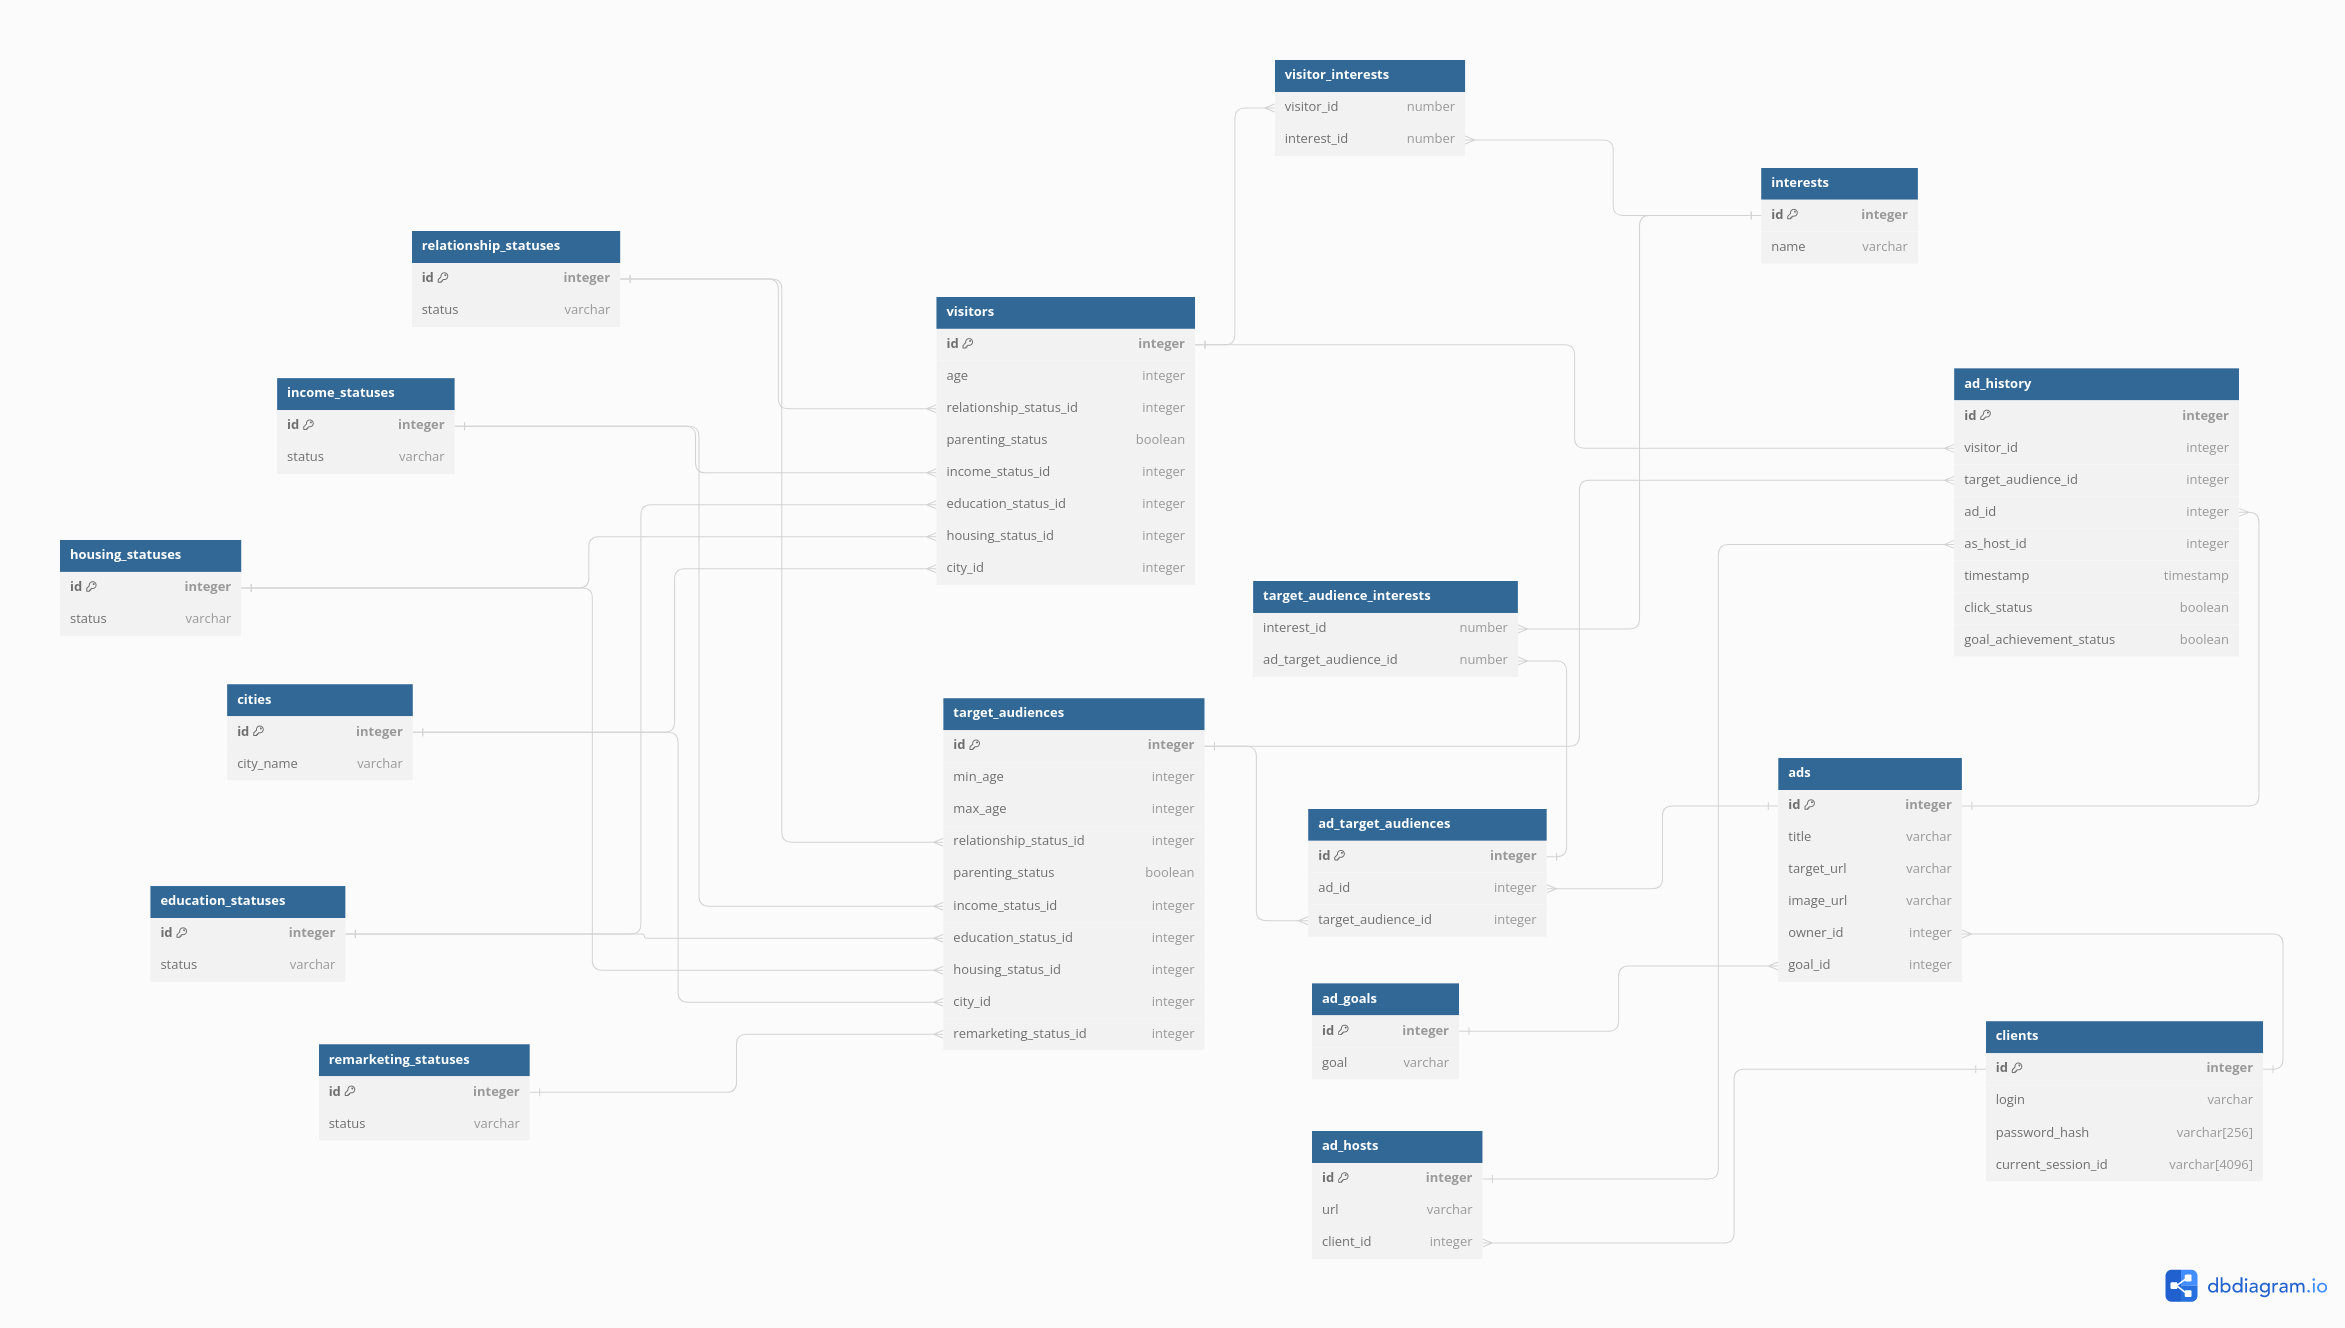
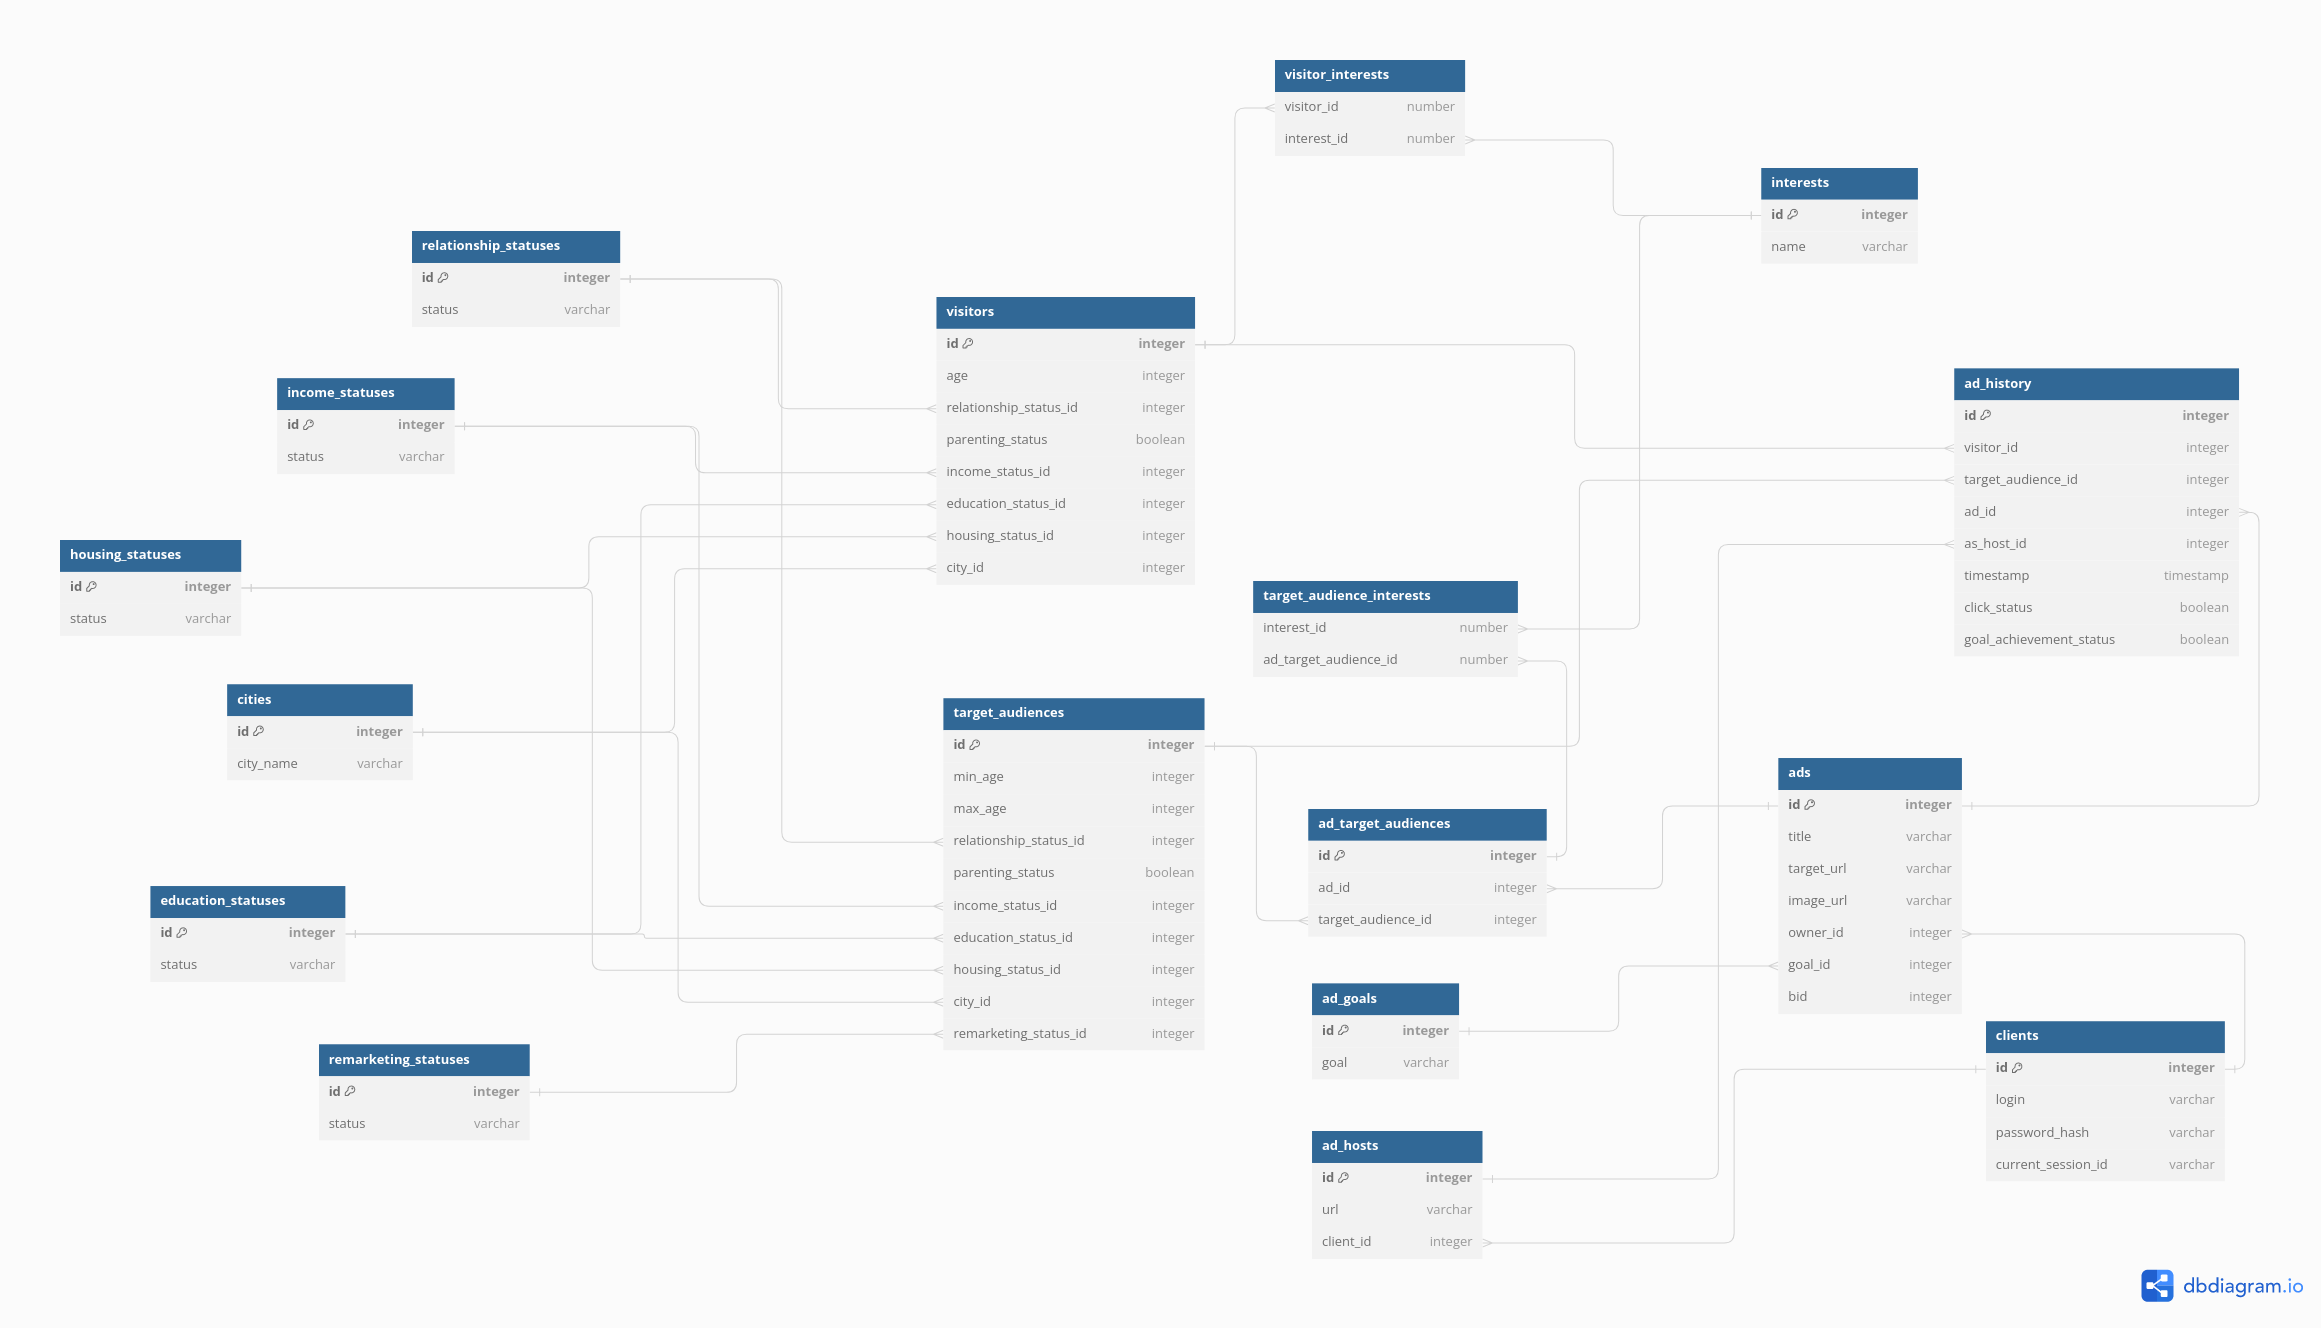
physical scheme

diff --git a/README.md b/README.md
@@ -8,7 +8,8 @@
 * ### [4. Локальная балансировка](#4)
 * ### [5. Логическая схема баз данных](#5)
 * ### [6. Физическая схема баз данных](#6)
-* ### [7. Технологии](#7)
+* ### [7. Алгоритмы](#7)
+* ### [8. Технологии](#8)
 
 ## 1 Тема и целевая аудитория<a name="1"></a>
 
@@ -187,8 +188,9 @@
 | image_url  | varchar[120] | 120 Байт |
 | owner_id   | int64 | 8 Байт
 | goal_id    | int8  | 1 Байт
+| bid        | int32 | 4 Байта
 
-Итого: 377 Байт
+Итого: 381 Байт
 
 Общее число объявлений: 4.5 млрд.
 Итого объём таблицы: 1.5 Тб
@@ -331,9 +333,9 @@
 | ------------------- | ------------------- | ------------ | ------------ | ------------------ | ------------------ |
 | Visitors            | 18 Байт             | 91.5 млн.    | 1.5 Гб       | 68000 | 31.2 |
 | Target Audiences    | 20 Байт             | 750 млн.     | 14 Гб        | 70448 | 16 |
-| Ads                 | 377 Байт            | 4.5 млрд.    | 1.5 Тб       | 70418 | 32 |
+| Ads                 | 381 Байт            | 4.5 млрд.    | 1.5 Тб       | 70418 | 32 |
 | Interests           | 48 Байт             | 1000         | 46.75 Кб     | 70448 | X |
-| Ad history          | 50 Байт             | 1.35 млрд.   | 7.5 Тб       | 2032 | 68000 | 
+| Ad history          | 50 Байт             | 164 млрд.    | 7.5 Тб       | 2032  | 68000 | 
 | Clients             | 4400 Байт           | 1.2 млн      | 8.6 Гб       | 70448 | - |
 | Ad hosts            | 56 Байт             | 40 000       | 2 Мб         | 70418 | - |
 | Visitor interests   | 16 Байт             | 4.55 млрд.   | 68 Гб        | 68000 | 31.2 |
@@ -343,31 +345,44 @@
 
 ## 6 Физическая схема баз данных<a name="6"></a>
 
+### Денормализация схемы
+
+Для избежания join'ов по огромным таблицам будем записывать интересы пользователей прямо в visitors, все данные по целевой аудитории напрямую в ads, а данные рекламных объявлений напрямую в ad_history.
+
 ![](physical_scheme.png)
 
-Пусть все запросы на запись в Ad history сначала хранятся в Kafka, и копируются в ClickHouse раз в 5 минут. При RPS = 10416 за 5 минут накопится 3.1 млн. записей или около 150 Мб.
-Будем хранить данные в Kafka в течение минимум недели. Получим 1.5 Тб.
+
+### Таблицы в ScyllaDB:
+
+| Таблица           | Ключ шардирования | Размер строки | Кол-во строк | Объём |
+| ----------------- | ----------------- | -------- | -------- | - |
+| ads               | interest_id       | 409 Байт | 18 млрд. | 6.7 Тб |
+| visitors          | id                | 18 Байт  | 91.5 млн. | 1.5 Гб |
+| visitor_interests | visitor_id        | 48 Байт  | 4.55 млрд. | 204 Гб |
+
+### Сводка
 
 | СУБД       | Функционал | Таблицы | Производительность | Надежность | Объём | Нагрузка на чтение(RPS) | Нагрузка на запись(RPS) |
 | ---------- | ---------- | ------- | ------------------ | ---------- | ----- | ------------------ | ------------------ |
-| ScyllaDB   | Хранение рекламных объявлений, данных о клиентах | Ads, Clients, Ad hosts | Горизонтальное масштабирование за счёт создания новых нод (node) | Реплицирование данных в рамках одного кластера. По умолчанию replication factor = 3 | 1510 Гб | 12416 | 32 |
-| Kafka      | Временное хранение данных перед их записью в ClickHouse| Ad history | Горизонтальное масштабирование за счёт нескольких партиций | - | 1.5 Тб | раз в 5 минут | 10416 | 
-| Neo4j      | Хранение данных о посетителях, их интересах | Interests, Target Audiences, Visitors, Visitor Interests, Ad target audiences, Target Audiences interests | Шардирование данных. Горизонтальное масштабирование за счёт создания новых кластеров | Master - slave реплицирование | 753 Гб | 12448 | 32 |
-| ClickHouse | Хранение истории просмотров для создания отчётов, обновления интересов пользователей | Ad history | Шардирование данных | Горячее резервирование | 7.5 Тб | 2032 | раз в 5 минут |
-| Tarantool  | Хранение данные о сессиях | Clients.sessions | Полностью In-memory | Создаём реплики | 8.5 Гб | 2032 | 1
+| ScyllaDB   | Хранение рекламных объявлений, данных о посетителях | ads, visitors, visitor_interests | Горизонтальное масштабирование за счёт создания новых нод (node), шардирование  | Реплицирование данных в рамках одного кластера. По умолчанию replication factor = 3 | 8.4 Тб | 70448 | 32 |
+| ClickHouse | Хранение истории просмотров для создания отчётов, обновления интересов пользователей | Ad history | Шардирование данных | Горячее резервирование | 7.5 Тб | 2032 | 68000 |
+| Tarantool  | Хранение данные о сессиях | Clients | Полностью In-memory | Реплики | 8.5 Гб | 2032 | 1
 
 Все изображения будут храниться в S3 хранилищах.
 
-## 7 Технологии<a name="7"></a>
+## 7 Алгоритмы <a name="7"></a>
+
+
+
+## 8 Технологии<a name="8"></a>
 
 | Технология | Область применения | Мотивационная часть |
 | ---------- | ------------------ | ------------------- |
 | Go         | ЯП Backend'а       | Надёжность, скорость, простая асинхронная модель |
-| TypeScript, React | Frontend     | Лёгкость в поддержки, высокая скорость разработки
+| TypeScript, React | Frontend     | Гибкость, высокая скорость разработки
 | nginx      | reverse proxy, балансировщик | Скорость, гибкость |
 | ScyllaDB   | БД для объявлений и клиентских данных |Масштабируемость, высокая скорость | 
-| VK Cloud S3 | Хранилище изображений | Уменьшение трафика в ЦД, уменьшение latency |
-| Neo4j | БД для данных об интересах посетителей | Графовая модель данных упрощает и ускоряет нахождение связей интересов пользователей с рекламными объявлениями |
+| ClickHouse | БД для хранения истории, формирование статистических отчётов | Масштабируемость, высокая скорость |
 
 ## Источники
 [^1]: [Статистика по аудитории Яндекса](https://radar.yandex.ru/)
